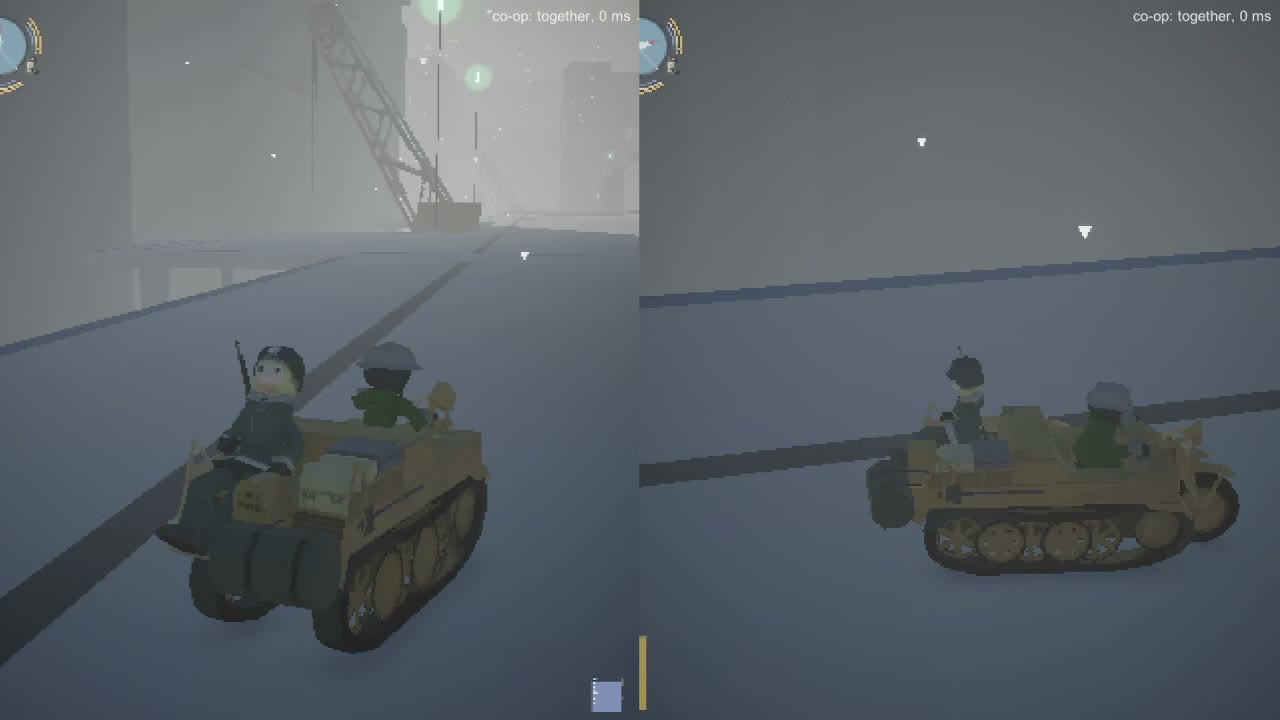
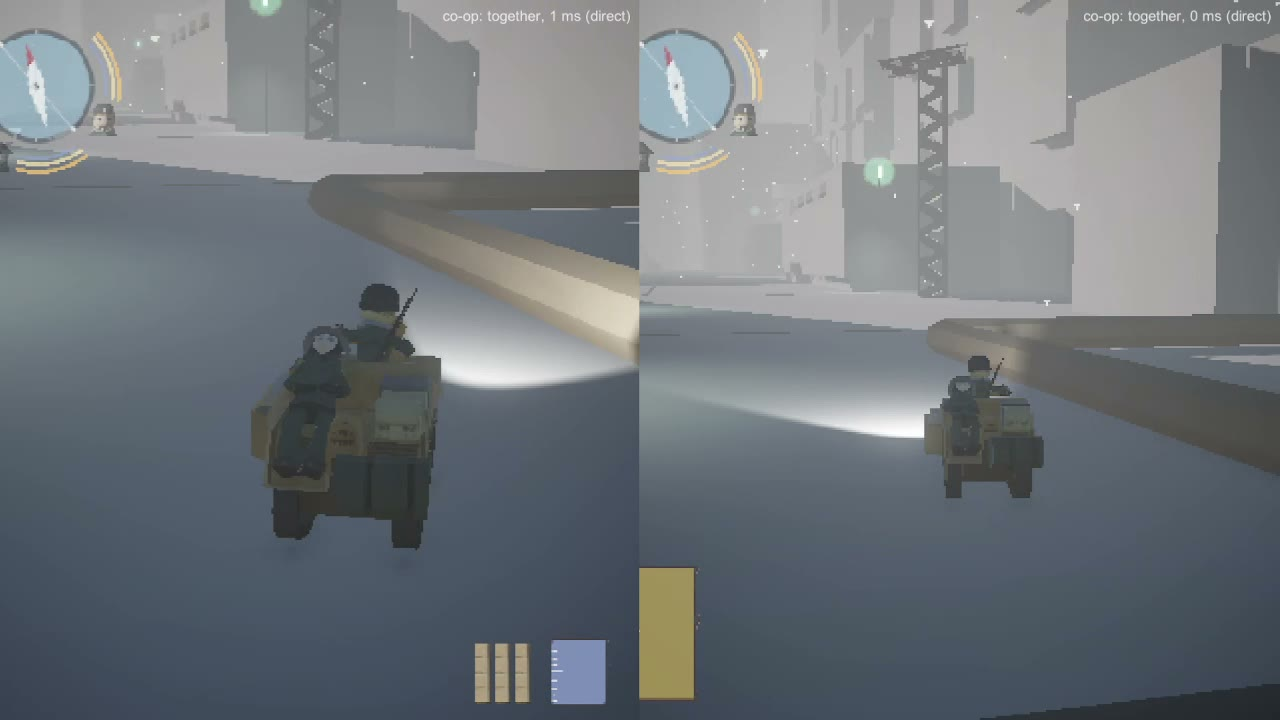
new readme screenshots

diff --git a/README.md b/README.md
@@ -2,13 +2,15 @@
 
 A two-player co-op version of [GLTPS1](https://github.com/snavu/GLTPS1), the Girls' Last Tour fan game. One player is Chito, the other is Yuuri, and you travel the same world together.
 
-![Both players riding the Kettenkrad, each on their own screen](docs/coop-ride.gif)
+![Getting on the Kettenkrad and driving off, each player on their own screen](docs/coop-ride.gif)
 
-*Two players' screens side by side, playing together.*
+*Two players side by side: Chito's screen on the left, Yuuri's on the right.*
 
-![Chito and Yuuri together at the start](docs/coop-together.jpg)
+![Water from a shot pipe, on both screens](docs/coop-pipe.jpg)
 
-![Both girls on the Kettenkrad](docs/coop-kettenkrad.jpg)
+![Both girls riding the Kettenkrad with the headlight on](docs/coop-kettenkrad.jpg)
+
+![Yuuri aiming from the back seat](docs/coop-aim.jpg)
 
 All credit for the game goes to its original developers. This fork only adds co-op and a few fixes.
 
